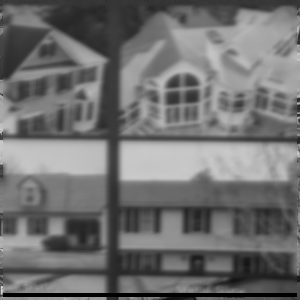
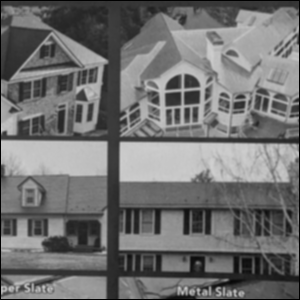
convolutions

diff --git a/solution.py b/solution.py
@@ -1,16 +1,33 @@
+""" 
+Project 2: Edge Detection
+-----------------------------------------------------------------------
+
+
+Usage: 
+    python solution.py <img1 path> <img2 path> <img size> <kernel size>
+
+Example:
+    python solution.py pic1grey300.jpg pic2grey300.jpg 300 3
+
+"""
+
 import cv2
 import numpy as np
 import math
+import sys
 
-IMG_1 = 'pic1grey300.jpg'
-IMG_2 = 'pic2grey300.jpg'
+
 FILTER = 'sharpening_filter3x3.txt'
 
-def apply_filter(img, img_filter):
+def apply_filter(img, m, n, img_filter):
     # This function convolves images using the specified filter
 
-    m = len(img_filter)
-    n = img.shape[0]
+    if not validate_img(img, n):
+        raise Exception(f"Invalid img size, expected: ({n}, {n}) got: {img.shape}")
+    if not validate_img(img_filter, m):
+        raise Exception(f"Invalid filter size, expected: ({m}, {m}) got: {img_filter.shape}")
+    
+    result = np.zeros((n, n), dtype=np.uint8)
 
     for y in range(m//2, n - m//2):
         for x in range(m//2, n - m//2):
@@ -19,9 +36,9 @@ def apply_filter(img, img_filter):
             if not check_conv_boundary(y, x, m, n):
                 p_val = convolve(img, y, x, img_filter, m)
 
-            img[y, x] = p_val
+            result[y, x] = p_val
 
-    return img
+    return result
             
 
 def convolve(img, y, x, f, m):
@@ -47,7 +64,7 @@ def normalize(img_filter):
 def check_conv_boundary(y, x, m, n):
     return (
         y < m // 2 or
-        y >= n - m or
+        y >= n - m // 2 or
         x < m // 2 or
         x >= n - m // 2
     )
@@ -69,19 +86,27 @@ def g(k, s = 1):
 
     return kernel
 
+def validate_img(img, s):
+    return (img.shape[0] == s and img.shape[1] == s)
+
 
 def main():
-    img1 = cv2.imread(IMG_1, cv2.IMREAD_GRAYSCALE)
-    img2 = cv2.imread(IMG_2, cv2.IMREAD_GRAYSCALE)
+    if not len(sys.argv) == 5:
+        raise ValueError(f"Invalid args\nUsage: python solution.py <img1 path> <img2 path> <img size> <kernel size>")
+
+    img1 = cv2.imread(sys.argv[1], cv2.IMREAD_GRAYSCALE)
+    img2 = cv2.imread(sys.argv[2], cv2.IMREAD_GRAYSCALE)
+    n = int(sys.argv[3])
+    m = int(sys.argv[4])
 
     ### TASK 1 ###
-    f1 = g(7, 4)    # gaussian blur
-    img1_blur = apply_filter(img1.copy(), f1)
+    f1 = g(m, 1)    # gaussian blur
+    img1_blur = apply_filter(img1.copy(), m, n, f1)
     cv2.imwrite('img1_blur.png', img1_blur)
 
-    f2 = np.loadtxt(FILTER, dtype=float)    # simple 3x3 sharpening kernel
+    f2 = np.loadtxt(FILTER, dtype=np.float32)    # simple 3x3 sharpening kernel
     f2 = normalize(f2)
-    img1_sharpened = apply_filter(img1.copy(), f2)
+    img1_sharpened = apply_filter(img1.copy(), m, n, f2)
     cv2.imwrite('img1_sharpened.png', img1_sharpened)
 
 
